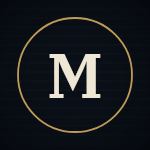
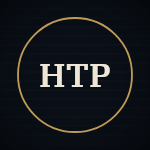
Launch kit for three channels: brand art, set-up guides, week-1 schedule, money plan
Money Crimes gets its own case-file kit (lab/brand/money_crimes.py); The Margin is
renamed How They Profit and its kit rebuilt; every kit adds X and Facebook covers
(lab/brand/covers.py) and a SETUP.md with names, handles, bios for each platform,
keywords and upload defaults. channel/LAUNCH.md: set-up steps, the 5-11 Oct
schedule per channel and platform, review rules, the path to ten channels.
MONEY.md: every avenue ranked by how soon it pays.

Claude-Session: https://claude.ai/code/session_01Rt7igyfTfNL8dxeQG3Bu66

Changed region(s): [[0.2667, 0.3467, 0.7467, 0.6667]]

diff --git a/lab/brand/money_crimes.py b/lab/brand/money_crimes.py
@@ -1,0 +1,99 @@
+"""MONEY CRIMES · channel art in the case-file look (35 mm warmth, gold serif, red rubber stamp): a 2560x1440 banner
+(text inside YouTube's 1546x423 safe area) over the forger's-workshop still from film 01, an 800x800 avatar, a 150x150
+watermark, then the X and Facebook covers.
+
+    python3 brand/money_crimes.py      -> channel/money-crimes/brand/
+"""
+import os
+import sys
+
+import numpy as np
+from PIL import Image, ImageDraw, ImageFilter, ImageFont
+
+HERE = os.path.dirname(os.path.abspath(__file__))
+LAB = os.path.dirname(HERE)
+sys.path.insert(0, HERE)
+from covers import covers  # noqa: E402
+
+OUT = os.path.join(os.path.dirname(LAB), "channel", "money-crimes", "brand")
+FONTS = os.path.join(LAB, "shorts", "fonts")
+SERIF, MONO = os.path.join(FONTS, "DMSerifDisplay-Regular.ttf"), os.path.join(FONTS, "IBMPlexMono-Medium.ttf")
+GOLD, RED, INK, PAPER = (226, 186, 112), (196, 38, 32), (14, 10, 8), (236, 226, 206)
+BG = os.path.join(LAB, "longform", "lustig", "src", "ai", "s01.png")   # the forger's back room, no people
+
+
+def grade(im, dark=0.42):
+    """Warm, dark 35 mm grade with grain and a vignette."""
+    a = np.asarray(im.convert("RGB")).astype(np.float32) / 255
+    lum = a @ [0.3, 0.59, 0.11]
+    a = np.stack([lum * 1.08, lum * 0.92, lum * 0.72], -1) * 0.6 + a * 0.4
+    h, w = lum.shape
+    yy, xx = np.mgrid[0:h, 0:w]
+    vig = 1 - 0.75 * (((xx - w / 2) / (w / 2)) ** 2 + ((yy - h / 2) / (h / 2)) ** 2) ** 1.2
+    a = a * dark * np.clip(vig, 0.15, 1)[..., None]
+    a += np.random.default_rng(7).normal(0, 0.018, a.shape)
+    return Image.fromarray((np.clip(a, 0, 1) * 255).astype(np.uint8))
+
+
+def stamp(text, size, angle=-8):
+    """A red rubber stamp: a double box, letters slightly worn."""
+    f = ImageFont.truetype(MONO, size)
+    tw = f.getbbox(text)[2]
+    pad = size * 0.5
+    im = Image.new("RGBA", (int(tw + pad * 2), int(size * 2.1)), (0, 0, 0, 0))
+    d = ImageDraw.Draw(im)
+    w, h = im.size
+    d.rectangle((3, 3, w - 4, h - 4), outline=RED + (235,), width=max(3, size // 9))
+    d.rectangle((size // 4, size // 4, w - size // 4, h - size // 4), outline=RED + (200,), width=max(1, size // 22))
+    d.text((pad, h / 2), text, font=f, fill=RED + (240,), anchor="lm")
+    a = np.asarray(im).copy()
+    wear = np.random.default_rng(3).random(a.shape[:2]) < 0.16
+    a[..., 3][wear] = (a[..., 3][wear] * 0.25).astype(np.uint8)
+    return Image.fromarray(a).rotate(angle, expand=True, resample=Image.BICUBIC)
+
+
+def banner():
+    w, h = 2560, 1440
+    bg = Image.open(BG).convert("RGB")
+    s = max(w / bg.width, h / bg.height)
+    bg = bg.resize((int(bg.width * s), int(bg.height * s)), Image.LANCZOS)
+    bg = bg.crop(((bg.width - w) // 2, (bg.height - h) // 2, (bg.width + w) // 2, (bg.height + h) // 2))
+    im = grade(bg.filter(ImageFilter.GaussianBlur(2)), 0.38).convert("RGBA")
+    d = ImageDraw.Draw(im)
+    cy = h // 2
+    title = ImageFont.truetype(SERIF, 200)
+    d.text((w / 2 + 4, cy - 2 + 4), "Money Crimes", font=title, fill=(0, 0, 0, 200), anchor="mm")
+    d.text((w / 2, cy - 2), "Money Crimes", font=title, fill=GOLD, anchor="mm")
+    tw = title.getbbox("Money Crimes")[2]
+    d.line((w / 2 - tw / 2, cy + 92, w / 2 + tw / 2, cy + 92), fill=GOLD + (180,), width=3)
+    sub = ImageFont.truetype(MONO, 36)
+    d.text((w / 2, cy + 150), "THE GREATEST CONS, FRAUDS AND HEISTS, EXPLAINED", font=sub, fill=PAPER, anchor="mm")
+    st = stamp("CASE FILE", 54, -9)
+    im.alpha_composite(st, (int(w / 2 + tw / 2 - st.width * 0.6), int(cy - 150 - st.height / 2)))
+    return im.convert("RGB")
+
+
+def avatar(size=800):
+    im = grade(Image.new("RGB", (size, size), (70, 52, 38)), 0.55).convert("RGBA")
+    d = ImageDraw.Draw(im)
+    c, r = size / 2, size * 0.41
+    d.ellipse((c - r, c - r, c + r, c + r), outline=RED + (235,), width=int(size * 0.035))
+    r2 = r * 0.86
+    d.ellipse((c - r2, c - r2, c + r2, c + r2), outline=RED + (190,), width=int(size * 0.012))
+    f = ImageFont.truetype(SERIF, int(size * 0.36))
+    d.text((c + size * 0.008, c + size * 0.008), "MC", font=f, fill=(0, 0, 0, 200), anchor="mm")
+    d.text((c, c), "MC", font=f, fill=GOLD, anchor="mm")
+    a = np.asarray(im).copy()
+    wear = (np.random.default_rng(5).random(a.shape[:2]) < 0.1) & (a[..., 0] > 150) & (a[..., 1] < 80)
+    a[..., :3][wear] = (a[..., :3][wear] * 0.55).astype(np.uint8)
+    return Image.fromarray(a).convert("RGB")
+
+
+if __name__ == "__main__":
+    os.makedirs(OUT, exist_ok=True)
+    banner().save(os.path.join(OUT, "banner_2560x1440.jpg"), quality=92)
+    av = avatar()
+    av.save(os.path.join(OUT, "avatar_800.png"))
+    av.resize((150, 150), Image.LANCZOS).save(os.path.join(OUT, "watermark_150.png"))
+    covers(os.path.join(OUT, "banner_2560x1440.jpg"), OUT)
+    print(sorted(os.listdir(OUT)))

diff --git a/lab/brand/covers.py b/lab/brand/covers.py
@@ -1,0 +1,23 @@
+"""Platform covers cut from a YouTube banner (2560x1440, text inside the 1546x423 safe area): the centre band, scaled.
+
+    python3 brand/covers.py <banner.png> <out_dir>   -> x_header_1500x500.jpg, facebook_cover_1640x624.jpg
+"""
+import os
+import sys
+
+from PIL import Image
+
+
+def covers(banner, out):
+    im = Image.open(banner).convert("RGB")
+    w, h = im.size
+    os.makedirs(out, exist_ok=True)
+    for name, (tw, th) in (("x_header_1500x500", (1500, 500)), ("facebook_cover_1640x624", (1640, 624))):
+        cw = 1700 * w // 2560                                # a little wider than the safe area
+        ch = round(cw * th / tw)
+        box = ((w - cw) // 2, (h - ch) // 2, (w + cw) // 2, (h + ch) // 2)
+        im.crop(box).resize((tw, th), Image.LANCZOS).save(os.path.join(out, name + ".jpg"), quality=92)
+
+
+if __name__ == "__main__":
+    covers(sys.argv[1], sys.argv[2])

diff --git a/lab/ch2/brand.py b/lab/ch2/brand.py
@@ -52,8 +52,8 @@ def avatar(size=800, small=False):
     c = s.getCanvas()
     ruled(c, size, size, step=size // 16)
     c.drawCircle(size / 2, size / 2, size * 0.38, L.stroke(L.BRASS, size * 0.012, 0.95))
-    initials = "".join(wd[0] for wd in ledger.BRAND.split() if wd not in ("THE", "A", "OF"))[:2] or ledger.BRAND[:1]
-    f = L.font(L.SERIF_B, size * (0.42 if len(initials) == 1 else 0.3))
+    initials = "".join(wd[0] for wd in ledger.BRAND.split() if wd not in ("THE", "A", "OF"))[:3] or ledger.BRAND[:1]
+    f = L.font(L.SERIF_B, size * {1: 0.42, 2: 0.3}.get(len(initials), 0.22))
     L.text(c, initials, size / 2, size / 2 + f.getSize() * 0.36, f, L.fill(L.PAPER), "center")
     if not small:
         c.drawLine(size * 0.3, size * 0.68, size * 0.7, size * 0.68, L.stroke(L.BRASS, size * 0.006, 0.8))

diff --git a/lab/ch2/ledger.py b/lab/ch2/ledger.py
@@ -16,7 +16,7 @@ from engine import tl  # noqa: E402
 from ch2 import look as L  # noqa: E402
 
 W, H, FPS = tl.W, tl.H, tl.FPS
-BRAND = "THE MARGIN"                # the channel's name on screen: change it here (working name; see BIBLE.md)
+BRAND = "HOW THEY PROFIT"                # the channel's name on screen: change it here (working name; see BIBLE.md)
 FLOORS = []
 ROMAN = ["I", "II", "III", "IV", "V", "VI", "VII", "VIII"]
 _BG = {}

diff --git a/channel/LAUNCH.md b/channel/LAUNCH.md
@@ -1,0 +1,58 @@
+# Launch: three channels, every platform, week 1 (5-11 Oct 2026)
+
+The user (3 Oct, night): set the YouTube channels up with every asset and detail, schedule a week of posts that can be
+tweaked, review performance and adjust; three channels at a high standard first, ten live by the end of October, all
+of them on every social platform with content made for each.
+
+## The three
+| Channel | What | Ready now | Kit |
+|---|---|---|---|
+| **The Curve** | The hidden mechanism behind AI headlines | LF01, LF02, Season One and Two; LF03 rendering; 6 Shorts + EP Shorts | `channel/the-curve/brand/` |
+| **Money Crimes** | The greatest cons, frauds and heists | Film 01 (Lustig, 14:56) + 4 Shorts | `channel/money-crimes/brand/` |
+| **How They Profit** (was The Margin) | How big companies really make money | 3 films scripted and storyboarded; film 01 in production this week | `channel/channel2/brand/` |
+Each `brand/` folder has the profile picture, YouTube banner, watermark, X and Facebook covers and `SETUP.md` (names,
+handles, descriptions, bios for every platform, keywords, upload defaults, playlists).
+
+## Set-up, once (about an hour; only you can do this)
+1. **YouTube:** in the Google account you'll use, YouTube > profile > Settings > "Add or manage your channels" > Create a
+   channel, once per channel (each becomes a Brand Account you own). Upload the avatar and banner, paste the
+   description and keywords from `SETUP.md`, set the upload defaults.
+2. **Verify each channel** (youtube.com/verify): one phone number covers two channels a year, so this needs two numbers
+   for three channels. Verification unlocks custom thumbnails and videos over 15 minutes.
+3. **TikTok, Instagram (switch to a Creator account), Facebook Page, X** for each channel: same name, handle, picture
+   and bio from `SETUP.md`. Link the Instagram account to its Facebook Page (needed for scheduling).
+4. **Connect for automation** (any order): Zapier > YouTube (each channel); vidIQ > each channel; Metricool connector
+   in claude.ai, if you want me to schedule across TikTok/Instagram/Facebook. Until then the free schedulers do it:
+   YouTube Studio (schedule on upload), TikTok's desktop scheduler (up to 10 days ahead), Meta Business Suite
+   (Instagram + Facebook).
+
+## Week 1 (times UK; 17:00 UK = noon New York, where the higher-paying audience is)
+Long films go on YouTube at 17:00. Each Short goes on YouTube Shorts, TikTok, Instagram Reels and Facebook Reels the same
+day at 13:00 (YouTube) and 19:00 (the others), with the platform's own caption and the AI label switched on.
+| Day | The Curve | Money Crimes | How They Profit |
+|---|---|---|---|
+| Mon 5 | **Long:** LF01 The AI That Escaped. Short: "escape" | Short: the Eiffel Tower (teaser) | (channel set up, no posts) |
+| Tue 6 | Short: "board" | **Long:** The Man Who Sold the Eiffel Tower. Short: "capone" | |
+| Wed 7 | **Long:** LF02 The Price of Thinking. Short: "war" | Short: new cut from the film | |
+| Thu 8 | Short: "cheat" | Short: "escape" | |
+| Fri 9 | **Long:** LF03 Too Dangerous to Release. Short: "bigmac" | Short: new cut | **Long:** Film 01 (airline miles), if it passes review |
+| Sat 10 | Short: "jevons" | Short: "box" | Short from film 01 |
+| Sun 11 | **Long:** Season One (14 min). Short: LF03 cold open | Short: new cut | Short from film 01 |
+Files and copy (titles, descriptions, thumbnails, pinned comments, Short captions): each film's `POST.md` and
+`shorts.py`, and the upload pages listed in `STUDIO.md`. Nothing is locked: a scheduled YouTube video can be edited or
+moved until it goes live, and every row above is independent.
+
+## Review (what we watch, and what changes it)
+- **48 hours after each long film:** click-through rate (aim 4%+; below 3% means swap the title or thumbnail; the three
+  thumbnails go in YouTube's Test & Compare) and average view duration (aim 40%+; below 30% means a slower or longer
+  opening to fix in the next film).
+- **Shorts:** "viewed vs swiped away" (aim 70%+) and average percentage viewed. The top Short each week gets a sequel;
+  the weakest format gets dropped.
+- **Sunday 11 Oct:** a written review per channel (vidIQ once connected, otherwise screenshots of YouTube Studio's
+  Analytics tab) and the week-2 plan: what to double, what to cut, which channel gets the next films.
+
+## To ten channels by 31 October
+Week 2-3: What if (3D science, the highest-virality format) and Maps & power (geopolitics on a 3D globe). Week 3-4: the
+best two channels in Spanish and Portuguese (same films, new voice, captions and on-screen text), and one new format
+from the trend desk. Each new channel goes live only with a week of posts ready, its own look and voice, and the same
+review rules. See `AUTOMATION.md` for the limits (phone verification, upload approvals) that pace this.

diff --git a/channel/the-curve/brand/SETUP.md b/channel/the-curve/brand/SETUP.md
@@ -1,0 +1,36 @@
+# The Curve: channel set-up (every name, bio and setting)
+
+All the art is in the kit page's "Set up the channel once" card (and in the chat). Same look everywhere: black,
+turquoise (#35D6C6), white. Channel name everywhere: **The Curve**. Handles to try, in order: @thecurve, @thecurveai,
+@thecurve.explained, @curveexplains (keep the same one on every platform).
+
+## YouTube (YouTube Studio > Customisation, on a computer or the Studio app)
+- Profile picture: avatar.png. Banner: banner.jpg. Video watermark (Branding > Video watermark): watermark.png, "entire video".
+- Description: The Curve explains the hidden mechanisms behind the AI headlines: why cheaper AI means more data centres, why a robot can pass an exam but can't fold your shirt, who really gets rich in a gold rush. Every figure is sourced on screen and in the description, and every price comes in Big Macs. New films every week, Shorts every day.
+- Keywords (Settings > Channel > Basic info): AI, artificial intelligence, AI explained, technology explained, economics explained, AI news, robots, data centres, Big Mac index, explainer, documentary, science, The Curve
+- Links: your TikTok, Instagram and Facebook pages once they exist.
+- Upload defaults (Settings > Upload defaults): category Education; language English; tags: ai, the curve, explained,
+  economics, technology; comments: hold potentially inappropriate ones for review.
+- Playlists: "Every film" (all of them, newest first); "AI and money" (EP03, EP08, EP10); "AI and the physical world"
+  (EP04, EP05, EP09); "AI and people" (EP06, EP07, EP11); "How fast is AI moving?" (EP08, EP10, EP12).
+- Each upload: title, description and thumbnail from the kit; not made for kids; altered or synthetic content: Yes (the
+  narrator is an AI voice); add it to its playlists; pin the comment below as the first comment.
+- Pinned comments: EP05: Would you trust a data centre in orbit? Every number in this film is sourced in the description.; EP08: What would you use thinking for if it cost as little as light? Sources are in the description.; EP04: Should a robot ever decide on its own? Every figure is sourced in the description.; EP06: Does your family have a secret word yet? Sources are in the description.; EP07: What would disappear first in an office built from zero around AI? Sources are in the description.; EP03: Who are the shovel sellers of the AI rush? Every number is sourced in the description.; EP09: Which part of your job is the oldest skill you have? Sources are in the description.; EP10: Who should set the line: a number, or a test? Sources are in the description.; EP11: When did an AI last tell you something confidently wrong? Every figure is sourced in the description.; EP12: What's one task that eats your week that you'd hand over first? Sources are in the description.
+- Custom thumbnails and videos over 15 minutes need the channel verified once (Settings > Channel > Feature eligibility).
+
+## TikTok
+- Name: The Curve. Photo: avatar.png. Bio: AI's hidden mechanisms, in numbers you can picture. Every figure sourced.
+- Every post: switch on "AI-generated content" (More options). Post one short a day in the kit's order; pin each Part 1.
+
+## Instagram
+- Name field: The Curve · AI explained (the name field is searchable). Photo: avatar.png.
+- Bio: The hidden mechanism behind the AI headlines. Every number sourced, every price in Big Macs.
+- Highlights: FILMS, SPACE, ROBOTS, MONEY with the four highlight covers. Post the same shorts as Reels.
+
+## Facebook Page
+- Name: The Curve. Category: Education website (or Media/news company). Photo: avatar.png. Cover: facebook_cover.jpg.
+- Intro: AI's hidden mechanisms, in numbers you can picture. Every figure sourced.
+- Post the same shorts as Reels; Meta Business Suite can schedule Instagram and Facebook together.
+
+## X (optional)
+- Photo: avatar.png. Header: x_header.jpg. Bio: The hidden mechanism behind the AI headlines. Every number sourced, every price in Big Macs.

diff --git a/MONEY.md b/MONEY.md
@@ -1,0 +1,25 @@
+# Every way this makes money, ranked by how soon it pays (3 Oct 2026)
+
+The user: "really utilise maximum potential money earners ... we steam roll to making money". The honest order: the
+YouTube ad money is the slowest (each channel needs 1,000 subscribers and 4,000 watch hours first, realistically 3-6
+months), so the plan earns from the factory itself while the channels compound.
+
+| # | Avenue | First money | What it takes | Why |
+|---|---|---|---|---|
+| 1 | **Sell the factory's output as a service** | Days | A sample reel (we have dozens of finished pieces), a price list, outreach | The engines already make better documentary films, Shorts and ads than most paid editors. Two markets: local businesses (promo reels, menu and offer videos, review videos: £150-£500 a package, or a monthly retainer for 8 reels; the walk-in kit "Takeaway Round" already exists) and faceless-channel owners who buy finished videos (Upwork, Fiverr, X). |
+| 2 | **Affiliate links in every description and bio, from day one** | Weeks | Sign-ups, one link block per channel | Costs nothing; earns as views grow. The Curve: AI tools with recurring commissions (voice, video, research and productivity tools we actually use). Money Crimes: scam protection (password managers, personal-data removal, identity protection, VPN): the most natural fit we have. How They Profit: business tools (store builders, accounting) and the books each film draws on. UK rules: label every link as an ad/affiliate; no investment promotions. |
+| 3 | **Digital products we already own** | 2-3 weeks | A Gumroad or Payhip store, product pages, preview videos | (a) Royalty-free music and sound-effect packs: our beds and SFX are synthesised in code, so we own them outright (also stock-audio sites). (b) The Remotion motion-graphics template pack (`lab/motion`) for video creators. (c) Companion ebooks from the research we do anyway ("The Money Crimes Casebook", "How They Profit: 25 business models"), on Amazon KDP and Gumroad. |
+| 4 | **AI influencer** | 1-3 months | One persona, a daily posting habit, a niche brands pay for | Higgsfield has a tool for a consistent character. It must be openly AI (Instagram, TikTok and the ASA expect the label). Strongest fit for us: a persona that ties into the channels, e.g. a scam-alert host who posts daily warnings (feeds Money Crimes, sells the scam-protection affiliates). Other options: travel/lifestyle (travel affiliates, brand deals) or fashion (biggest brand-deal market, most crowded). Subscription platforms that allow AI creators exist (Fanvue); OnlyFans requires a real, verified creator. |
+| 5 | **YouTube ad revenue** | 3-6 months | The channels in `channel/LAUNCH.md` | The long game and the biggest at scale; get the best channels into the Partner Programme before 1 Feb 2027 (the bar doubles after). |
+| 6 | **Physical products** | Later | An audience first | Print-on-demand merch (no stock to hold) once a channel has fans; YouTube's merch shelf needs the Partner Programme. A physical idea worth testing later: a "greatest cons" card or board game from Money Crimes. |
+
+## October, week by week
+- **Week 1:** launch the three channels (`channel/LAUNCH.md`); affiliate sign-ups and link blocks; the service offer:
+  one-page sample reel + price list, then 10 local businesses and 10 channel owners contacted.
+- **Week 2:** first digital product live (the music and SFX pack); pick the AI influencer persona and make its first
+  week of posts.
+- **Weeks 3-4:** channels 4-10 (`channel/LAUNCH.md`); the first companion ebook; review what earned and double it.
+
+## Ground rules
+- Spend credits, not cash, until something earns. No paid ads, courses or "systems" until the free routes are working.
+- Everything labelled (AI, ads, affiliates). Nothing that impersonates real people or makes claims we can't source.

diff --git a/channel/money-crimes/brand/SETUP.md b/channel/money-crimes/brand/SETUP.md
@@ -1,0 +1,38 @@
+# Money Crimes: channel set-up (every name, bio and setting)
+
+Files in this folder: `avatar_800.png` (profile picture everywhere), `banner_2560x1440.jpg` (YouTube banner; the text sits
+inside the safe area), `watermark_150.png` (YouTube video watermark), `x_header_1500x500.jpg`, `facebook_cover_1640x624.jpg`.
+Regenerate with `python3 lab/brand/money_crimes.py`.
+
+**Name:** Money Crimes. **Handle** (first that's free, same on every platform): @MoneyCrimes, @MoneyCrimesFiles,
+@TheMoneyCrimes.
+
+## YouTube
+- Description: The greatest cons, frauds and heists, told properly. How Victor Lustig sold the Eiffel Tower twice, how
+  Ponzi schemes really work, where the money went and how they got caught. Every film is built from court records,
+  newspapers and archive photographs, with every source in the description. Reconstructions are AI-made and labelled on
+  screen. New documentaries every week, Shorts every day.
+- Keywords: true crime, fraud, scams, con artists, heists, white collar crime, financial crime, history documentary,
+  Ponzi scheme, scam explained, crime documentary, Money Crimes
+- Upload defaults: category Education; language English; tags: true crime, fraud, scam, con artist, documentary;
+  comments: hold potentially inappropriate ones for review. Altered or synthetic content: Yes on every upload.
+- Playlists: "Every case" (all films); "Con artists"; "Ponzi and pyramid schemes"; "Heists".
+- Links: TikTok, Instagram, Facebook once they exist.
+
+## TikTok (bio up to 80 characters)
+The greatest cons, frauds and heists, explained. Sources in every post.
+Every post: switch on "AI-generated content".
+
+## Instagram (bio up to 150 characters)
+Name field: Money Crimes · cons & frauds explained. Bio: The greatest cons, frauds and heists in history, explained
+properly. Sources in every post. AI reconstructions, labelled.
+
+## Facebook Page
+Name: Money Crimes. Category: Media/news company. Intro: The greatest cons, frauds and heists, explained, with sources.
+
+## X (bio up to 160 characters)
+The greatest cons, frauds and heists in history, explained. Court records, archive photos, sources in every post.
+
+## Rules that keep it safe
+Only charged or convicted people; contested parts told as "the story goes"; no living private individuals; the jazz
+credit line (Kevin MacLeod, CC BY 4.0) in every description that uses it.

diff --git a/channel/channel2/brand/SETUP.md b/channel/channel2/brand/SETUP.md
@@ -1,0 +1,32 @@
+# How They Profit: channel set-up (every name, bio and setting)
+
+Was "The Margin" (a "Margins" channel already exists). The name now lives in `lab/ch2/ledger.py` BRAND; regenerate the
+art with `python3 lab/ch2/brand.py` then `python3 lab/brand/covers.py lab/ch2/build/brand/banner_2560x1440.png <dir>`.
+Files here: `avatar_800.png`, `banner_2560x1440.png`, `watermark_150.png`, `x_header_1500x500.jpg`,
+`facebook_cover_1640x624.jpg`.
+
+**Name:** How They Profit. **Handle** (first that's free, same everywhere): @HowTheyProfit, @HowTheyProfitHQ, @HTProfit.
+
+## YouTube
+- Description: One company's money machine, opened up. How airlines make more from miles than from flying, why McDonald's
+  is really a landlord, why Costco barely profits from what it sells. Every film follows the money with real figures
+  from annual reports and filings, every source in the description. AI narration and illustrations, labelled. New films
+  every week.
+- Keywords: business explained, how companies make money, business model, economics, finance explained, annual report,
+  Costco, McDonald's, airlines, business documentary, How They Profit
+- Upload defaults: category Education; language English; tags: business, business model, economics, explained;
+  altered or synthetic content: Yes.
+- Playlists: "Every company"; "Retail"; "Travel"; "Food".
+
+## TikTok (80 characters)
+How the world's biggest companies really make money. Sources in every post.
+
+## Instagram (150 characters)
+Name field: How They Profit · business explained. Bio: How the world's biggest companies really make their money, in
+real numbers. Sources in every post.
+
+## Facebook Page
+Name: How They Profit. Category: Education website. Intro: How the biggest companies really make their money.
+
+## X (160 characters)
+How the world's biggest companies really make money: one business model at a time, in real numbers from their own filings.

diff --git a/HANDOFF.md b/HANDOFF.md
@@ -6,6 +6,18 @@ databases on one account can't be read from the other. Push anything the other s
 Updated 3 Oct 2026 (~8:30pm UTC), cloud session on branch `claude/funny-newton-gd9w8v`. **Start with "3 Oct evening"
 just below (`STUDIO.md` maps everything), then "3 Oct: jazz", "2 Oct" and the rest.**
 
+## 3 Oct late: launch three channels (read `channel/LAUNCH.md` and `MONEY.md`)
+- The user: set up the YouTube channels with every asset, schedule a week of posts that can be tweaked, review and adjust;
+  three channels at a high standard first (The Curve, Money Crimes, How They Profit), ten live by 31 October, every
+  platform; then the AI influencer, affiliates and our own products. "We steam roll to making money."
+- Kits (profile picture, banner, watermark, X/Facebook covers, `SETUP.md` with names, handles, bios, keywords, defaults):
+  `channel/the-curve/brand/`, `channel/money-crimes/brand/` (new, `lab/brand/money_crimes.py`),
+  `channel/channel2/brand/` (The Margin renamed **How They Profit** in `lab/ch2/ledger.py`; "Margins" was taken).
+- `channel/LAUNCH.md`: one-time set-up steps, the week-1 schedule (5-11 Oct) per channel and platform, the review rules,
+  the path to ten channels. `MONEY.md`: every avenue ranked by how soon it pays (services first).
+- LF03: word timings, voice and music built on 3 Oct night; render next (`python3 kit.py lf03_held render`). Note the
+  new first step on a fresh checkout: `python3 ../longform/tools/words.py lf03_held/src/vo_[0-9][0-9].wav`.
+
 ## 3 Oct night: the goal is now 50 channels by 1 Feb 2027, fully automated (read `AUTOMATION.md`)
 - The user: set up every API, MCP and connector to automate creation, analysis, critique, upload and review, and have 50
   channels live by the February rule change. `AUTOMATION.md` has the limits (factory networks get terminated; one phone
